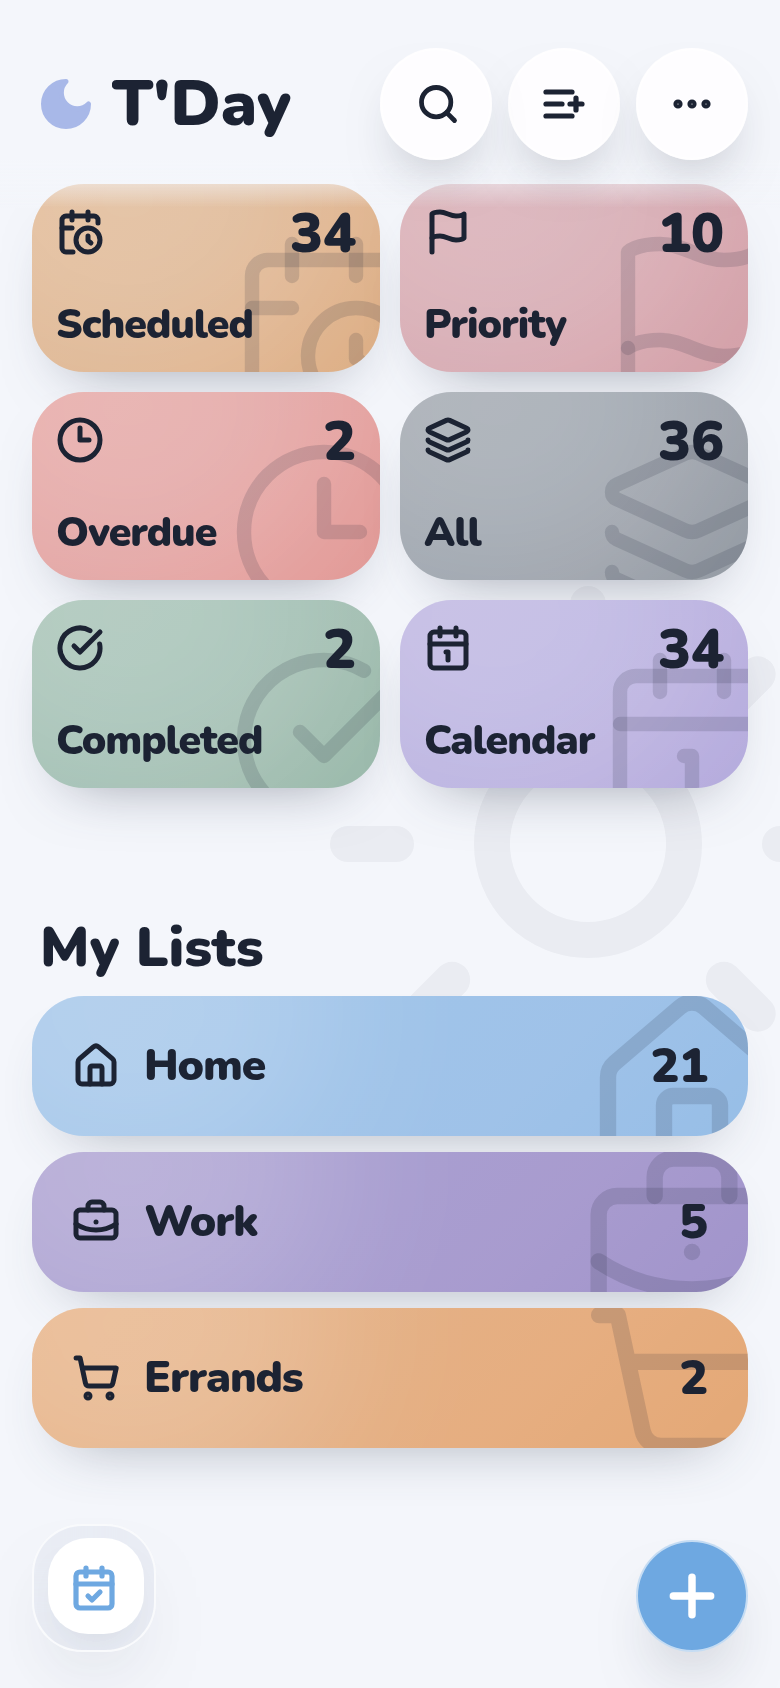
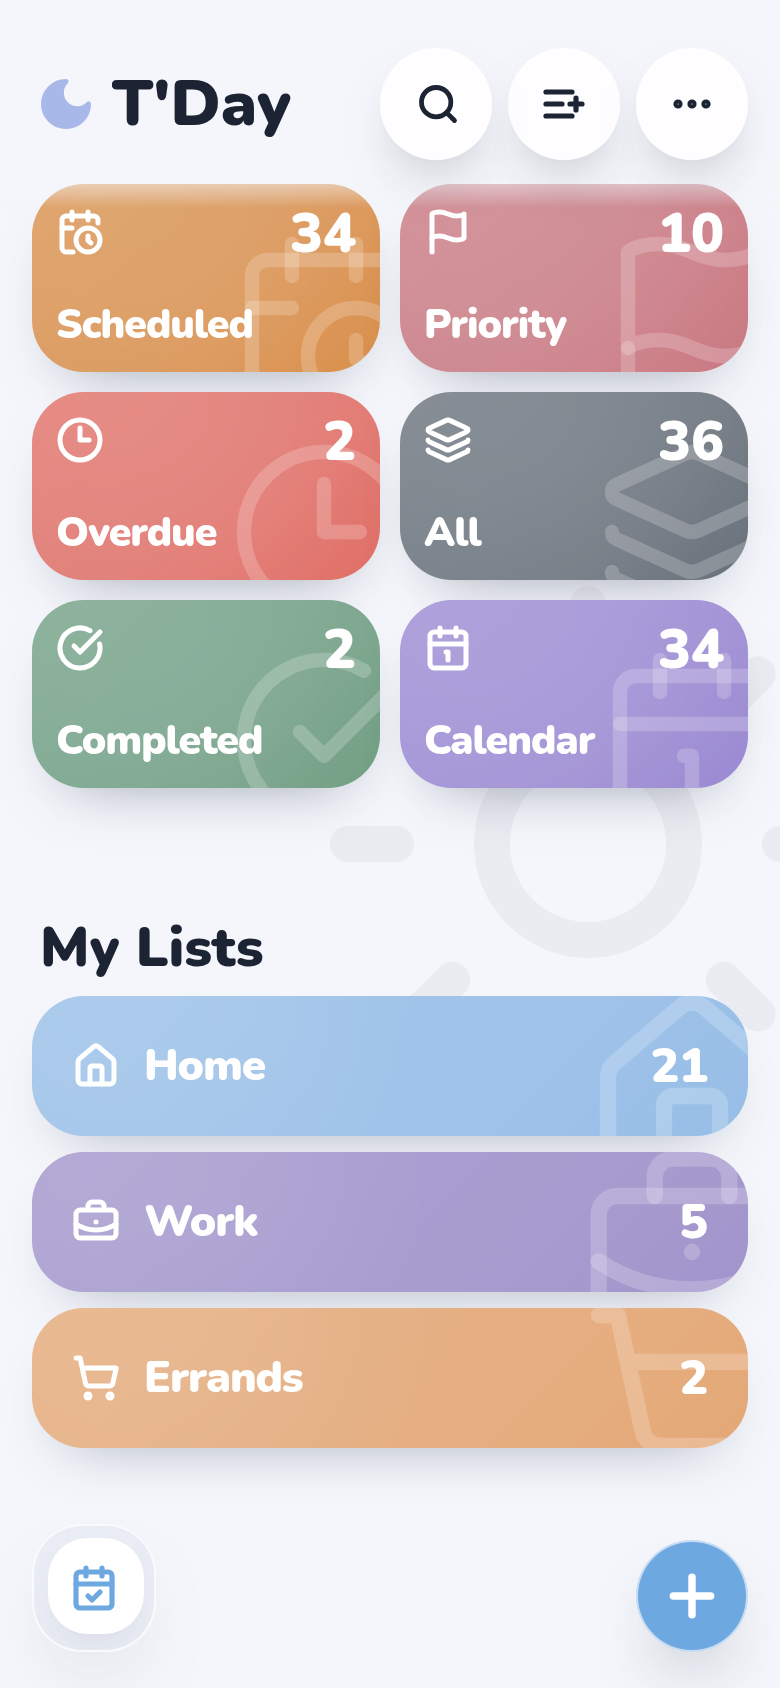
Match dashboard tile colours to iOS

diff --git a/tday-web/src/features/scheduledTaskHome/component/NativeScheduledTaskHomeDashboard.tsx b/tday-web/src/features/scheduledTaskHome/component/NativeScheduledTaskHomeDashboard.tsx
@@ -83,9 +83,15 @@ const listColorCss: Record<ListColor, string> = {  RED: "hsl(var(--accent-red))"
 function renderTileOverlay() {
   return (
     <>
-      <div className="pointer-events-none absolute -left-14 -top-20 h-44 w-52 rounded-full bg-white/20 blur-2xl" />
+      <div className="pointer-events-none absolute -left-14 -top-20 h-44 w-52 rounded-full bg-white/10 blur-2xl" />
       <div className="pointer-events-none absolute inset-0 bg-[linear-gradient(135deg,rgba(255,255,255,0.12),rgba(231,243,255,0.10)_45%,rgba(255,242,250,0.08)_68%,transparent)]" />
     </>
+  );
+}
+
+function renderTodayOverlay() {
+  return (
+    <div className="pointer-events-none absolute inset-0 bg-[radial-gradient(ellipse_130%_180%_at_22%_20%,rgba(255,255,255,0.10),rgba(255,255,255,0.03)_55%,transparent_78%)]" />
   );
 }
 
@@ -234,10 +240,10 @@ export default function NativeScheduledTaskHomeDashboard() {
 
         <Link
           href="/app/today"
-          className="relative flex h-[70px] items-center justify-between overflow-hidden rounded-[26px] px-5 text-foreground shadow-[0_14px_30px_-18px_rgba(50,90,130,0.62)] transition-transform duration-enter hover:-translate-y-0.5 active:translate-y-0.5"
-          style={{ background: tileSurface(todayTileColor) }}
+          className="relative flex h-[70px] items-center justify-between overflow-hidden rounded-[26px] px-5 text-white shadow-[0_14px_30px_-18px_rgba(50,90,130,0.62)] transition-transform duration-enter hover:-translate-y-0.5 active:translate-y-0.5"
+          style={{ background: todayTileColor }}
         >
-          {renderTileOverlay()}
+          {renderTodayOverlay()}
           <span className="relative truncate text-[1.38rem] font-black leading-none tracking-tight">
             {titleDate}
           </span>
@@ -287,18 +293,18 @@ export default function NativeScheduledTaskHomeDashboard() {
                 key={route.id}
                 href={route.path}
                 className={cn(
-                  "group relative min-h-[94px] overflow-hidden rounded-[26px] p-3 text-foreground",
+                  "group relative min-h-[94px] overflow-hidden rounded-[26px] p-3 text-white",
                   "shadow-[0_14px_30px_-18px_rgba(60,70,90,0.55)] transition-transform duration-enter",
                   "hover:-translate-y-0.5 active:translate-y-0.5",
-                  active && "ring-2 ring-foreground/25",
+                  active && "ring-2 ring-white/40",
                 )}
-                style={{ background: tileSurface(tile?.color) }}
+                style={{ background: tile?.color ?? scheduledTaskHomeTileConfig.all?.color }}
               >
                 {renderTileOverlay()}
-                <Icon className="pointer-events-none absolute -bottom-6 -right-5 h-24 w-24 text-foreground/15 stroke-[1.8]" />
+                <Icon className="pointer-events-none absolute -bottom-6 -right-5 h-24 w-24 text-white/20 stroke-[1.8]" />
                 <div className="relative flex h-full flex-col justify-between">
                   <div className="flex items-start justify-between gap-3">
-                    <Icon className="h-6 w-6 text-foreground stroke-[2.5]" />
+                    <Icon className="h-6 w-6 text-white stroke-[2.5]" />
                     {count != null && (
                       <span className="text-[1.72rem] font-black leading-none">
                         {count}
@@ -331,14 +337,14 @@ export default function NativeScheduledTaskHomeDashboard() {
                     key={list.id}
                     href={`/app/list/${list.id}`}
                     aria-label={scheduledTaskHomeDict("openList", { name: formatListName(list.name) })}
-                    className="relative flex h-[70px] items-center gap-3 overflow-hidden rounded-[26px] px-5 text-foreground shadow-[0_14px_30px_-18px_rgba(60,70,90,0.45)] transition-transform duration-enter hover:-translate-y-0.5 active:translate-y-0.5"
+                    className="relative flex h-[70px] items-center gap-3 overflow-hidden rounded-[26px] px-5 text-white shadow-[0_14px_30px_-18px_rgba(60,70,90,0.45)] transition-transform duration-enter hover:-translate-y-0.5 active:translate-y-0.5"
                     style={{
                       background: tileSurface(accent),
                     }}
                   >
                     {renderTileOverlay()}
-                    <ListIcon className="pointer-events-none absolute -bottom-9 -right-7 h-28 w-28 text-foreground/15 stroke-[1.75]" />
-                    <ListIcon className="relative h-6 w-6 shrink-0 text-foreground stroke-[2.5]" />
+                    <ListIcon className="pointer-events-none absolute -bottom-9 -right-7 h-28 w-28 text-white/20 stroke-[1.75]" />
+                    <ListIcon className="relative h-6 w-6 shrink-0 text-white stroke-[2.5]" />
                     <span className="relative min-w-0 flex-1 truncate text-[1.38rem] font-black leading-none tracking-tight">
                       {formatListName(list.name)}
                     </span>

diff --git a/android-compose/app/src/main/java/com/ohmz/tday/compose/core/ui/CategoryCard.kt b/android-compose/app/src/main/java/com/ohmz/tday/compose/core/ui/CategoryCard.kt
@@ -54,6 +54,10 @@ import androidx.compose.ui.unit.dp
  * [inlineIcon] is the full-width form a single-column feed uses: a 70dp row with the glyph
  * beside the title on one line, as iOS's `FloaterTaskHomeCompletedCard` and web's tile draw
  * it. The default is the 2-up grid tile, glyph over title with room for a [count].
+ *
+ * [strongGlow] selects the heavier top-left wash iOS uses on the Floater feed's full-width
+ * cards (0.22 → 0.08) rather than the Scheduled board's lighter one (0.10 → 0.03). The two
+ * native feeds genuinely draw different strengths, so the shared tile has to match both.
  */
 @Composable
 fun CategoryCard(
@@ -65,6 +69,7 @@ fun CategoryCard(
     count: Int? = null,
     tileTransitionKey: String? = null,
     inlineIcon: Boolean = false,
+    strongGlow: Boolean = false,
     onClick: () -> Unit,
 ) {
     val view = LocalView.current
@@ -102,10 +107,12 @@ fun CategoryCard(
                     .fillMaxWidth()
                     .then(if (inlineIcon) Modifier.height(InlineCardHeight) else Modifier)
                     .drawWithCache {
+                        val glowTopAlpha = if (strongGlow) 0.22f else 0.10f
+                        val glowMidAlpha = if (strongGlow) 0.08f else 0.03f
                         val iconSideGlow = Brush.radialGradient(
                             colors = listOf(
-                                Color.White.copy(alpha = 0.22f),
-                                Color.White.copy(alpha = 0.08f),
+                                Color.White.copy(alpha = glowTopAlpha),
+                                Color.White.copy(alpha = glowMidAlpha),
                                 Color.Transparent,
                             ),
                             center = Offset(

diff --git a/tday-web/src/features/floater/component/NativeFloaterTaskHomeDashboard.tsx b/tday-web/src/features/floater/component/NativeFloaterTaskHomeDashboard.tsx
@@ -268,11 +268,11 @@ export default function NativeFloaterTaskHomeDashboard() {
         <Link
           href="/app/completed?scope=floater"
           className={cn(
-            "relative flex h-[70px] items-center gap-3 overflow-hidden rounded-[26px] px-5 text-foreground",
+            "relative flex h-[70px] items-center gap-3 overflow-hidden rounded-[26px] px-5 text-white",
             "shadow-[0_14px_30px_-20px_rgba(60,70,90,0.55)] transition-transform duration-enter",
             "hover:-translate-y-0.5 active:translate-y-0.5",
           )}
-          style={{ background: tileSurface(nativeScreenAccentColors.completed) }}
+          style={{ background: nativeScreenAccentColors.completed }}
         >
           {renderTileOverlay()}
           <CheckCircle className="relative h-6 w-6 shrink-0 stroke-[2.5]" />
@@ -300,7 +300,7 @@ export default function NativeFloaterTaskHomeDashboard() {
                     key={list.id}
                     href={`/app/floater-list/${list.id}`}
                     className={cn(
-                      "relative flex min-h-[66px] items-center gap-3 overflow-hidden rounded-[24px] px-4 text-foreground",
+                      "relative flex min-h-[66px] items-center gap-3 overflow-hidden rounded-[24px] px-4 text-white",
                       "shadow-[0_14px_30px_-20px_rgba(60,70,90,0.55)] transition-transform duration-enter",
                       "hover:-translate-y-0.5 active:translate-y-0.5",
                     )}

diff --git a/android-compose/app/src/main/java/com/ohmz/tday/compose/feature/scheduledtaskhome/ScheduledTaskHomeScreen.kt b/android-compose/app/src/main/java/com/ohmz/tday/compose/feature/scheduledtaskhome/ScheduledTaskHomeScreen.kt
@@ -1625,12 +1625,7 @@ private fun ScheduledTaskHomeTodayCard(
                             center = Offset(size.width * 0.22f, size.height * 0.2f),
                             radius = size.width * 0.72f,
                         )
-                        val pearl = Brush.radialGradient(
-                            colors = listOf(Color.White.copy(alpha = 0.10f), Color.Transparent),
-                            center = Offset(size.width * 0.9f, size.height * 0.75f),
-                            radius = size.width * 0.55f,
-                        )
-                        onDrawWithContent { drawRect(glow); drawRect(pearl); drawContent() }
+                        onDrawWithContent { drawRect(glow); drawContent() }
                     },
             ) {
                 Row(
@@ -2316,8 +2311,8 @@ private fun ListRow(
                     .drawWithCache {
                         val iconSideGlow = Brush.radialGradient(
                             colors = listOf(
-                                Color.White.copy(alpha = 0.22f),
-                                Color.White.copy(alpha = 0.08f),
+                                Color.White.copy(alpha = 0.10f),
+                                Color.White.copy(alpha = 0.03f),
                                 Color.Transparent,
                             ),
                             center = Offset(

diff --git a/android-compose/app/src/main/java/com/ohmz/tday/compose/feature/todos/TodoListScreen.kt b/android-compose/app/src/main/java/com/ohmz/tday/compose/feature/todos/TodoListScreen.kt
@@ -4043,6 +4043,9 @@ private fun LazyListScope.floaterTaskHomeRootFeedContent(
                 // One row, glyph beside the word, as iOS draws this tile — the
                 // stacked form is the 2-up grid's, and this one is full width.
                 inlineIcon = true,
+                // The Floater feed's cards wear iOS's heavier wash (0.22 → 0.08),
+                // not the Scheduled board's lighter one.
+                strongGlow = true,
                 onClick = onOpenCompleted,
             )
         }
